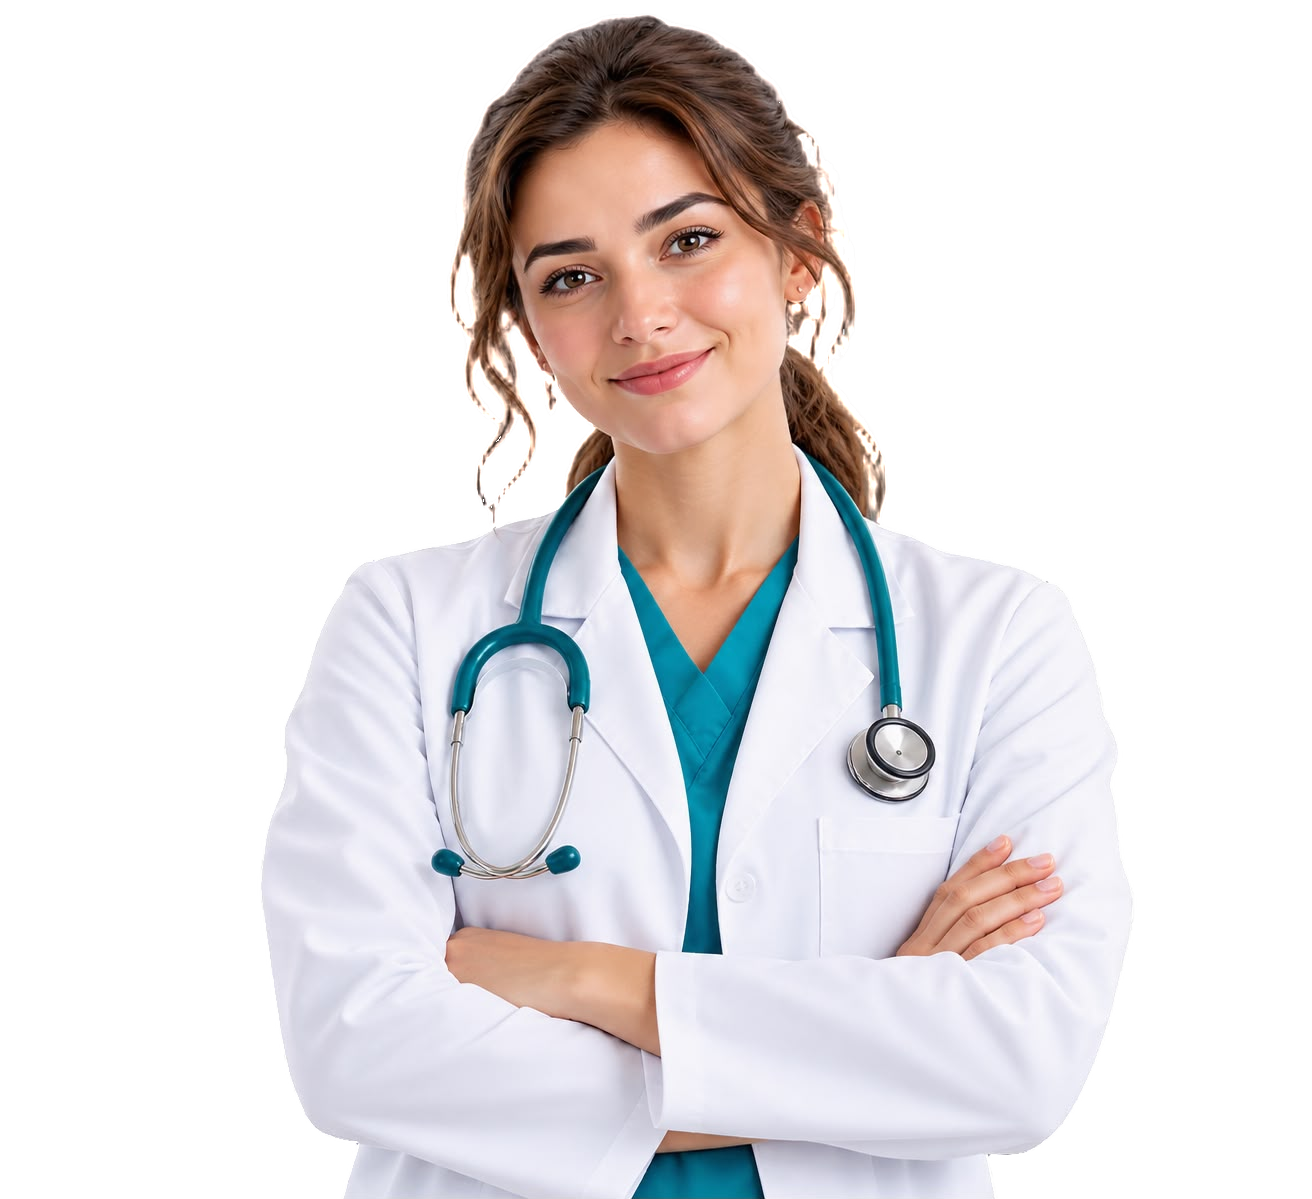
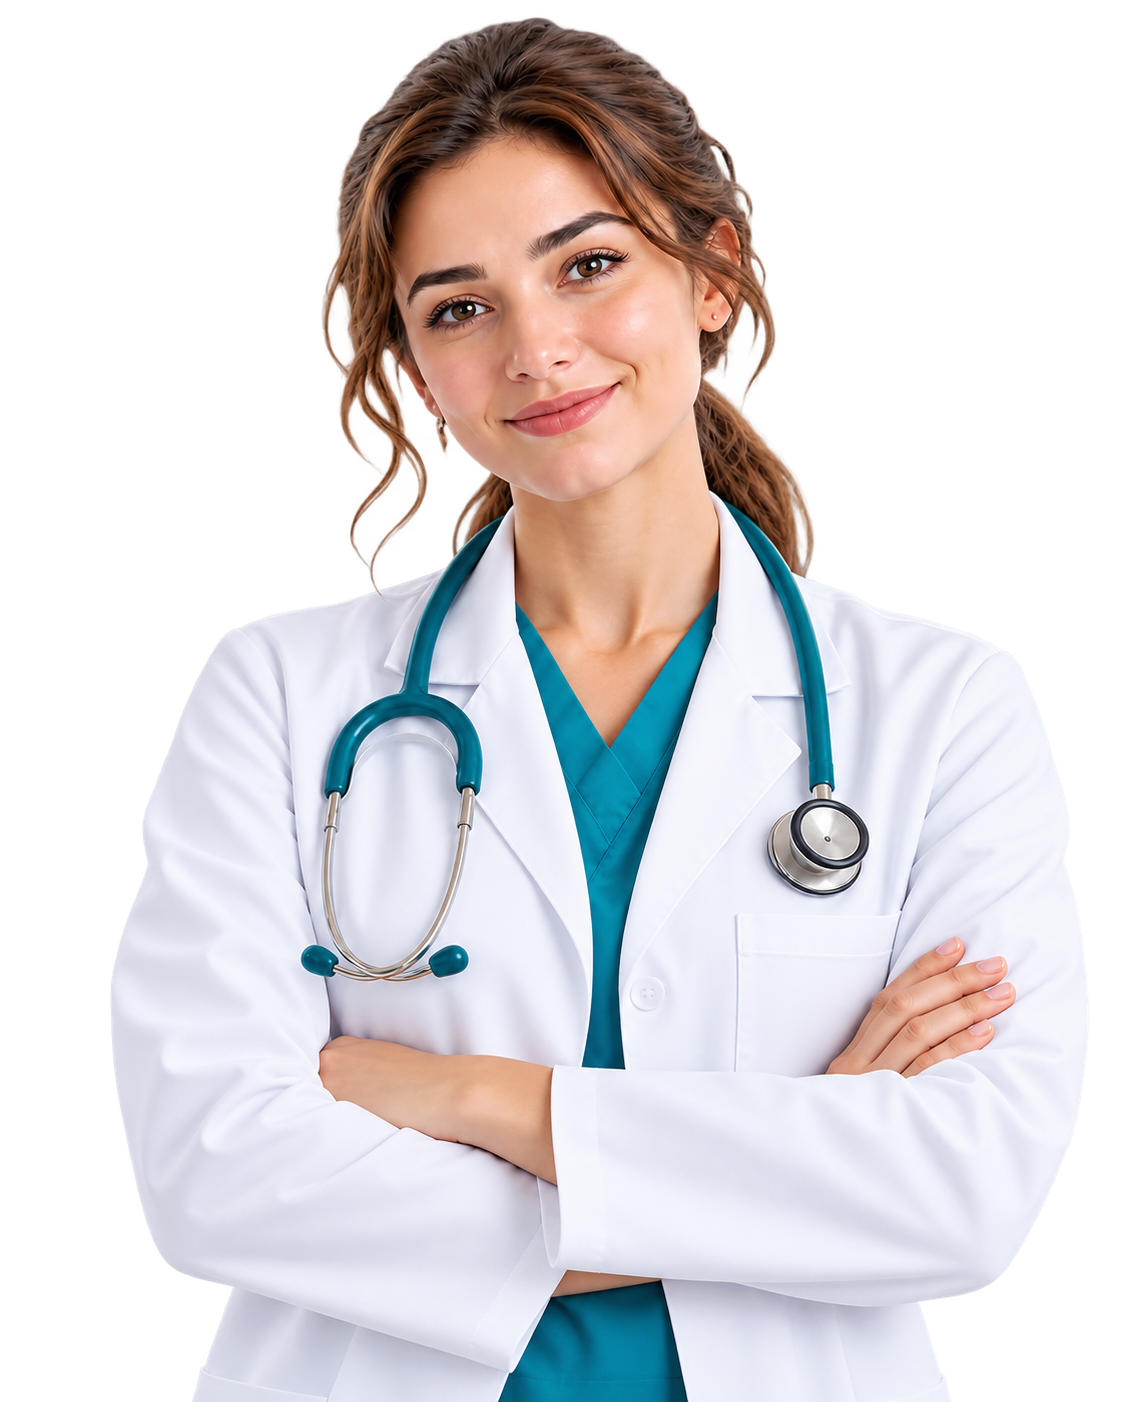
fix(ui): reposition hero cutout assets for premium tight composition based on reference

Changed region(s): [[0.0936, 0.0, 0.9358, 1.0]]

diff --git a/patch_hero_v2.js b/patch_hero_v2.js
@@ -1,0 +1,52 @@
+const fs = require('fs');
+
+let cssCode = fs.readFileSync('app/home-visual.css', 'utf8');
+
+const oldHeroDoctor = /\.home-hero-doctor\s*\{[\s\S]*?\}/;
+const newHeroDoctor = `.home-hero-doctor {
+  position: absolute;
+  width: auto;
+  object-fit: contain;
+  object-position: bottom center;
+  height: 97%;
+  bottom: 0;
+  right: 27%;
+  z-index: 2;
+  filter: drop-shadow(-8px 10px 24px rgba(10, 45, 60, 0.18));
+}`;
+cssCode = cssCode.replace(oldHeroDoctor, newHeroDoctor);
+
+const oldHeroKit = /\.home-hero-kit\s*\{[\s\S]*?\}/;
+const newHeroKit = `.home-hero-kit {
+  position: absolute;
+  width: auto;
+  object-fit: contain;
+  object-position: center right;
+  height: 68%;
+  right: 3%;
+  top: 12%;
+  z-index: 3;
+  filter: drop-shadow(-6px 14px 20px rgba(10, 45, 60, 0.2));
+}`;
+cssCode = cssCode.replace(oldHeroKit, newHeroKit);
+
+const oldHeroGradient = /\.home-hero-gradient\s*\{[\s\S]*?\}/;
+const newHeroGradient = `.home-hero-gradient {
+  position: absolute;
+  inset: 0;
+  background: linear-gradient(90deg, #0f5a66 0%, #1f7f90 38%, #5bbfca 68%, #bfe8ec 100%);
+  z-index: 1;
+}`;
+cssCode = cssCode.replace(oldHeroGradient, newHeroGradient);
+
+const oldHeroCopy = /\.home-hero-copy\s*\{[\s\S]*?\}/;
+const newHeroCopy = `.home-hero-copy {
+  position: relative;
+  z-index: 10;
+  padding: 55px 0 0 80px;
+  width: 45%;
+}`;
+cssCode = cssCode.replace(oldHeroCopy, newHeroCopy);
+
+fs.writeFileSync('app/home-visual.css', cssCode, 'utf8');
+console.log('Hero CSS updated.');

diff --git a/app/home-visual.css b/app/home-visual.css
@@ -337,26 +337,30 @@ body:has(.home-page) {
 .home-hero-gradient {
   position: absolute;
   inset: 0;
-  background: linear-gradient(to right, #094754 0%, #157d8e 45%, #bcebef 100%);
+  background: linear-gradient(90deg, #0f5a66 0%, #1f7f90 38%, #5bbfca 68%, #bfe8ec 100%);
   z-index: 1;
 }
 .home-hero-doctor {
   position: absolute;
   width: auto;
   object-fit: contain;
-  height: 109%;
-  bottom: -2px;
-  left: 52%;
+  object-position: bottom center;
+  height: 97%;
+  bottom: 0;
+  right: 27%;
   z-index: 2;
+  filter: drop-shadow(-8px 10px 24px rgba(10, 45, 60, 0.18));
 }
 .home-hero-kit {
   position: absolute;
   width: auto;
   object-fit: contain;
-  height: 84%;
-  right: 28px;
-  top: 20px;
+  object-position: center right;
+  height: 68%;
+  right: 3%;
+  top: 12%;
   z-index: 3;
+  filter: drop-shadow(-6px 14px 20px rgba(10, 45, 60, 0.2));
 }
 
 
@@ -365,7 +369,7 @@ body:has(.home-page) {
   position: relative;
   z-index: 10;
   padding: 55px 0 0 80px;
-  max-width: 500px;
+  width: 45%;
 }
 
 .home-hero h1 {
@@ -702,9 +706,19 @@ body:has(.home-page) {
   }
 
   .home-hero-copy {
-    padding: 24px 0 0 20px;
-    max-width: 68%;
-  }
+      padding: 24px 0 0 20px;
+      width: 68%;
+      max-width: none;
+    }
+
+    .home-hero-kit {
+      display: none;
+    }
+    .home-hero-doctor {
+      right: -5%;
+      height: 95%;
+    }
+
 
   .home-hero h1 {
     font-size: 34px;

diff --git a/patch_mobile_hero.js b/patch_mobile_hero.js
@@ -1,0 +1,26 @@
+const fs = require('fs');
+
+let cssCode = fs.readFileSync('app/home-visual.css', 'utf8');
+
+const mobileHeroCSS = `
+    .home-hero-kit {
+      display: none;
+    }
+    .home-hero-doctor {
+      right: -5%;
+      height: 95%;
+    }
+`;
+
+cssCode = cssCode.replace(
+  /\.home-hero-copy \{\n\s*padding: 24px 0 0 20px;\n\s*width: 68%;\n\s*max-width: none;\n\s*\}/g,
+  `.home-hero-copy {
+      padding: 24px 0 0 20px;
+      width: 68%;
+      max-width: none;
+    }
+${mobileHeroCSS}`
+);
+
+fs.writeFileSync('app/home-visual.css', cssCode, 'utf8');
+console.log('Mobile hero image fix applied.');

diff --git a/patch_hero_v3.js b/patch_hero_v3.js
@@ -1,0 +1,15 @@
+const fs = require('fs');
+
+let cssCode = fs.readFileSync('app/home-visual.css', 'utf8');
+
+cssCode = cssCode.replace(
+  /\.home-hero-copy \{\n\s*padding: 24px 0 0 20px;\n\s*max-width: 68%;\n\s*\}/g,
+  `.home-hero-copy {
+      padding: 24px 0 0 20px;
+      width: 68%;
+      max-width: none;
+    }`
+);
+
+fs.writeFileSync('app/home-visual.css', cssCode, 'utf8');
+console.log('Mobile hero copy fixed.');
